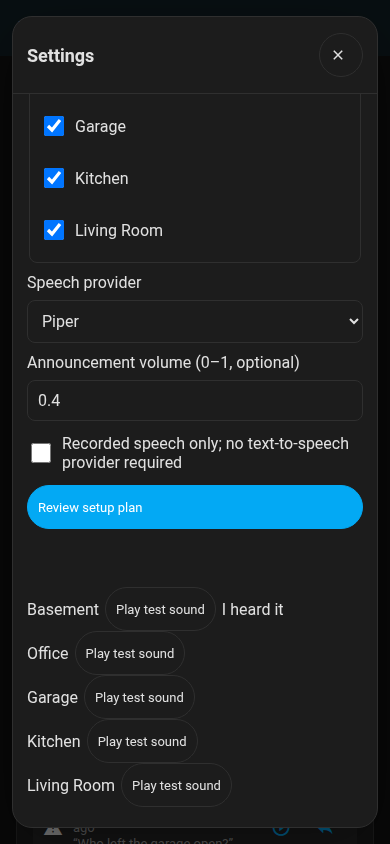
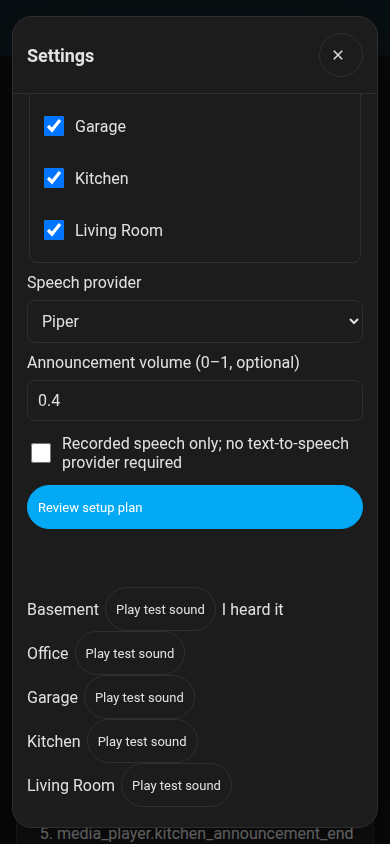
feat: show message preparation and delivery timeline (#53)
* feat(delivery): show message progress

* feat(profiles): add household presets

* feat(jobs): persist opt-in message recovery

* ci: avoid redundant browser dependency installs

* fix(profiles): clarify destination overrides

* fix: preserve clear cross-feature outcomes

* fix: preserve clear cross-feature outcomes

* ci: avoid slow hosted Ubuntu mirror

* ci: avoid slow hosted Ubuntu mirror

* ci: avoid slow hosted Ubuntu mirror

* fix(timeline): wrap long speaker names

* ci: pin self-contained ffmpeg for audio tests

* ci: pin self-contained ffmpeg for audio tests

* ci: pin self-contained ffmpeg for audio tests

* fix: align native catalog with merged app

* fix: align native catalog with merged app

* fix: align native catalog with merged app

Changed region(s): [[0.0923, 0.955, 0.9231, 1.0]]

diff --git a/custom_components/roomcall/frontend/roomcall-controls.js b/custom_components/roomcall/frontend/roomcall-controls.js
@@ -21,6 +21,7 @@ export class RoomCallControls {
       .communication .setup-content { display:grid; gap:8px; padding-top:8px }
       .communication .test-row { display:flex; align-items:center; flex-wrap:wrap; gap:6px }
       .communication .result,.communication .settings-result { overflow-wrap:anywhere; white-space:pre-wrap }
+      .communication ol { min-width:0; margin:0; padding-inline-start:24px; overflow-wrap:anywhere; }
       .communication button { min-height:44px; min-width:44px }
       .communication button:disabled { opacity:.5; cursor:not-allowed }
       .communication nav[data-toolbar] { display:grid; grid-template-columns:repeat(3,minmax(0,1fr)) 44px; gap:4px;
@@ -117,6 +118,9 @@ export class RoomCallControls {
     this.result = document.createElement("div");
     this.result.className = "result muted";
     this.result.setAttribute("role", "status");
+    this.timeline = document.createElement("ol");
+    this.timeline.setAttribute("aria-label", this.t("delivery_timeline"));
+    this.timeline.hidden = true;
     this.jobActions = document.createElement("nav");
     this.dialog = document.createElement("dialog");
     this.dialog.setAttribute("aria-label", this.t("settings"));
@@ -183,7 +187,7 @@ export class RoomCallControls {
     const icon = document.createElement("ha-icon"); icon.setAttribute("icon", "mdi:tune-variant");
     settings.append(icon);
     this.nav.append(settings);
-    this.root.append(this.nav, this.form, this.result, this.jobActions);
+    this.root.append(this.nav, this.form, this.result, this.timeline, this.jobActions);
     card.shadowRoot.querySelector(".wrap").before(this.root);
     this.settingsRoot = document.createElement("section");
     this.settingsRoot.className = "communication settings-surface";
@@ -325,6 +329,23 @@ export class RoomCallControls {
       const job = await this.command("status", { id });
       this.result.textContent = this.t(job.state, { accepted: job.result?.delivered?.length || 0,
         speakers: Object.keys(job.result?.failed || {}).join(", ") });
+      const steps = [...(job.progress || [])];
+      this.timeline.hidden = !steps.length;
+      this.timeline.replaceChildren(...steps.map(step => {
+        const row = document.createElement("li");
+        row.textContent = `${this.t(`phase_${step.stage}`)} · ${(step.elapsed_ms / 1000).toFixed(1)}s`;
+        return row;
+      }));
+      for (const [endpoint, evidence] of Object.entries(job.result?.evidence || {})) {
+        if (endpoint === "human") continue;
+        const name = this.capabilities?.endpoints.find(e => e.entity_id === endpoint)?.name || endpoint;
+        for (const key of ["audio_fetched_ms", "playback_reported_ms"]) {
+          if (evidence[key] == null) continue;
+          const row = document.createElement("li");
+          row.textContent = `${name}: ${this.t(`phase_${key}`)} · ${(evidence[key] / 1000).toFixed(1)}s`;
+          this.timeline.append(row);
+        }
+      }
       this.jobActions.replaceChildren();
       if (job.state === "queued") this.jobActions.append(this.button("cancel", async () => {
         await this.command("cancel", { id });

diff --git a/scripts/ha_card_harness.html b/scripts/ha_card_harness.html
@@ -177,7 +177,7 @@
         if (body.operation === "preview") return {ok:true,endpoints:ROOMS.filter((r) => request.areas?.includes("all") || request.areas?.includes(r.area_id)).map((r) => `media_player.${r.area_id}`)};
         if (["send","ask","sound_test"].includes(body.operation)) {
           const id=crypto.randomUUID();
-          const job={ok:true,id,state:body.operation==="ask"?"answered":"completed",responses:body.operation==="ask"?[{sentence:"Pizza"}]:[]};
+          const job={ok:true,id,progress:[{stage:"queued",elapsed_ms:0},{stage:"synthesizing",elapsed_ms:40},{stage:"completed",elapsed_ms:250}],result:{evidence:{"media_player.kitchen_announcement_endpoint_with_a_long_name_for_small_displays":{audio_fetched_ms:100,playback_reported_ms:200}},failed:{}},state:body.operation==="ask"?"answered":"completed",responses:body.operation==="ask"?[{sentence:"Pizza"}]:[]};
           jobs.set(id,{...job,speaker:request.speaker});
           return job;
         }

diff --git a/custom_components/roomcall/frontend/roomcall-card.js b/custom_components/roomcall/frontend/roomcall-card.js
@@ -1,5 +1,5 @@
 /* RoomCall push-to-talk card for Home Assistant dashboards. */
-const CARD_VERSION = "0.16.0";
+const CARD_VERSION = "0.17.0";
 // Peak level (0–1) below which a recording is treated as silence.
 const SILENCE_PEAK = 0.04;
 const LAYOUTS = ["default", "compact", "kiosk"];

diff --git a/custom_components/roomcall/jobs.py b/custom_components/roomcall/jobs.py
@@ -52,12 +52,24 @@ class Job:
     task: asyncio.Task | None = None
     acknowledged: asyncio.Event = field(default_factory=asyncio.Event)
 
+    started_mono: float = field(default_factory=time.monotonic)
+    progress: list[dict[str, Any]] = field(default_factory=list)
     saved_result: dict[str, Any] | None = None
+
+    def phase(self, stage: str) -> None:
+        self.progress.append(
+            {
+                "stage": stage,
+                "elapsed_ms": max(0, round((time.monotonic() - self.started_mono) * 1000)),
+            }
+        )
+        self.progress[:] = self.progress[-16:]
 
     def summary(self) -> dict[str, Any]:
         return {
             "id": self.id,
             "state": self.state,
+            "progress": list(self.progress),
             "created": self.created,
             "result": self.record.summary() if self.record else self.saved_result,
             "error": self.error,
@@ -169,6 +181,7 @@ class Jobs:
             asyncio.get_running_loop().time() + values.get("expires_in", 300),
             assistant=assistant,
         )
+        job.phase("queued")
         self.items[job.id] = job
         if key[1]:
             self.keys[key] = (job.id, fingerprint)
@@ -234,12 +247,15 @@ class Jobs:
     async def _run(self, job: Job) -> None:
         def dispatched() -> None:
             job.state = "running"
+            if not any(p["stage"] == "dispatching" for p in job.progress):
+                job.phase("dispatching")
 
         try:
             if job.values.get("durable"):
                 await self.save()
             async with asyncio.timeout_at(job.deadline):
                 if job.values.get("defer_until_present"):
+                    job.phase("waiting_presence")
                     await self._wait_for_presence(job)
                 if job.values.get("satellites"):
                     dispatched()
@@ -259,6 +275,7 @@ class Jobs:
                     call_id=job.id,
                     deadline=job.deadline,
                     on_dispatch=dispatched,
+                    on_progress=job.phase,
                 )
                 if not job.record.ok:
                     accepted = sum(r.ok for r in job.record.results)
@@ -280,6 +297,7 @@ class Jobs:
                 if job.values.get("require_ack"):
                     job.record.requires_ack = True
                     job.state = "waiting_ack"
+                    job.phase("waiting_ack")
                     try:
                         async with asyncio.timeout(job.values.get("ack_timeout", 60)):
                             await job.acknowledged.wait()
@@ -319,6 +337,7 @@ class Jobs:
         finally:
             if job.record and job.state != "waiting_ack":
                 job.record.requires_ack = False
+            job.phase(job.state)
             self.data.metrics.counters[f"jobs_{job.state}"] += 1
             if job.values.get("durable"):
                 await self.save()

diff --git a/tests_ha/test_timeline.py b/tests_ha/test_timeline.py
@@ -1,0 +1,41 @@
+"""Visible delivery stages never imply acoustic or human confirmation."""
+
+from custom_components.roomcall.communication import execute
+from custom_components.roomcall.messages import request_for
+from homeassistant.core import Context
+from pytest_homeassistant_custom_component.common import async_mock_service
+
+
+async def test_timeline_tracks_preparation_dispatch_and_request_completion(hass, setup_roomcall):
+    data = hass.data["roomcall"]
+    hass.states.async_set("tts.piper", "unknown")
+    async_mock_service(hass, "media_player", "play_media")
+    result = await execute(hass, "send", {"areas": ["kitchen"], "message": "Dinner"}, Context())
+    assert result["progress"][0]["stage"] == "queued"
+    job = data.jobs.items[result["id"]]
+    await job.task
+    status = await execute(hass, "status", {"id": job.id}, Context())
+    assert [s["stage"] for s in status["progress"]] == [
+        "queued",
+        "synthesizing",
+        "composing",
+        "waiting_speakers",
+        "dispatching",
+        "completed",
+    ]
+    assert all(s["elapsed_ms"] >= 0 for s in status["progress"])
+    assert status["audible"] is None and status["result"]["audible"] is None
+    assert not any("human" in evidence for evidence in status["result"]["evidence"].values())
+    for _ in range(30):
+        job.phase("queued")
+    assert len(job.progress) == 16
+
+    cached_stages = []
+    await request_for(
+        hass,
+        data,
+        {"areas": ["kitchen"], "message": "Dinner"},
+        Context(),
+        on_progress=cached_stages.append,
+    )
+    assert cached_stages == []  # Reused audio did not synthesize or compose again.

diff --git a/custom_components/roomcall/messages.py b/custom_components/roomcall/messages.py
@@ -28,6 +28,8 @@ async def request_for(
     data: RoomCallData,
     values: dict[str, Any],
     context: Context,
+    *,
+    on_progress: Callable[[str], None] | None = None,
 ) -> CallRequest:
     from dataclasses import replace
 
@@ -124,7 +126,11 @@ async def request_for(
             try:
 
                 async def build():
+                    if on_progress:
+                        on_progress("synthesizing")
                     extension, speech = await async_get_media_source_audio(hass, media_id)
+                    if on_progress:
+                        on_progress("composing")
                     result = await to_playable(
                         get_ffmpeg_manager(hass).binary,
                         speech,
@@ -186,8 +192,11 @@ async def send(
     deadline: float | None = None,
     on_dispatch: Callable[[], None] | None = None,
     notify: bool = True,
+    on_progress: Callable[[str], None] | None = None,
 ) -> CallRecord:
-    request = await request_for(hass, data, values, context)
+    request = await request_for(hass, data, values, context, on_progress=on_progress)
+    if on_progress:
+        on_progress("waiting_speakers")
     request.call_id, request.deadline, request.on_dispatch = call_id, deadline, on_dispatch
     request.notify = notify
     return await place_call(hass, data, request)

diff --git a/scripts/qa_communication.py b/scripts/qa_communication.py
@@ -307,7 +307,7 @@ def main() -> None:
         check_doorbell(browser, errors)
         check_doorbell_changes(browser, errors)
         check_phone_tab(browser, errors)
-        for width, height in [(390, 844), (1280, 900)]:
+        for width, height in [(240, 800), (390, 844), (1280, 900)]:
             context = browser.new_context(viewport={"width": width, "height": height})
             context.grant_permissions(["microphone"], origin=ORIGIN)
             page = context.new_page()
@@ -335,6 +335,10 @@ def main() -> None:
             expect(card.locator(".result")).to_contain_text("Basement")
             card.get_by_role("button", name="Send", exact=True).click()
             expect(card.locator(".result")).to_contain_text("audibility unconfirmed")
+            timeline = card.get_by_role("list", name="Delivery timeline", exact=True)
+            expect(timeline).to_contain_text("Generating speech")
+            expect(timeline).to_contain_text("Audio fetched after dispatch")
+            expect(timeline).to_contain_text("Playback reported after dispatch")
             sent = page.evaluate(
                 "ROOMCALL_HARNESS.requests.filter(r=>r.operation==='send').at(-1).request"
             )

diff --git a/custom_components/roomcall/const.py b/custom_components/roomcall/const.py
@@ -3,7 +3,7 @@
 from __future__ import annotations
 
 DOMAIN = "roomcall"
-VERSION = "0.16.0"
+VERSION = "0.17.0"
 
 CONF_SPEAKERS = "speakers"
 CONF_VOLUME = "volume"

diff --git a/src/roomcall/__init__.py b/src/roomcall/__init__.py
@@ -1,3 +1,3 @@
 """RoomCall: push-to-talk home intercom for Sonos, AirPlay and Chromecast speakers."""
 
-__version__ = "0.16.0"
+__version__ = "0.17.0"

diff --git a/docs/communication.md b/docs/communication.md
@@ -292,6 +292,21 @@ coverage for both Python packages on every supported Python/HA test job, without
 source omissions. This does not measure JavaScript statement coverage. Physical speaker and
 doorbell behavior must still be checked on the chosen hardware.
 
+## Delivery timeline
+
+Every message job exposes a bounded `progress` list with stage codes and monotonic
+elapsed milliseconds. The card renders queueing, presence wait, speech generation,
+chime composition, speaker wait, dispatch and terminal outcome. Stage timestamps mark
+observed transitions; the gap to the next stage is elapsed work/wait, not an acoustic
+measurement. Direct TTS routes may not expose provider preparation separately.
+
+Endpoint audio-fetch and matching playback reports are shown separately, measured
+from endpoint dispatch. Those clocks must not be added to whole-job elapsed times.
+A completed request is not a claim that playback finished or somebody heard it.
+Explicit human acknowledgment remains separate. Existing structured errors provide
+recovery instructions for blocked/failed messages. The UI uses the shared translated
+labels and preserves narrow layouts and screen-reader status announcements.
+
 ## Household profiles
 
 Configure Communication → Household profiles with at most 32 named presets:

diff --git a/CHANGELOG.md b/CHANGELOG.md
@@ -4,6 +4,10 @@ All notable changes are listed here. The format follows
 [Keep a Changelog](https://keepachangelog.com/en/1.1.0/) and versions follow
 [Semantic Versioning](https://semver.org/).
 
+## 0.17.0 — 2026-10-23
+
+- Show measured preparation and dispatch stages, with endpoint fetch/playback evidence separate from human acknowledgment. Completion still means requests finished, not audible playback.
+
 ## 0.16.0 — 2026-10-23
 
 - Named household profiles provide reusable targets, message, volume, language, chime and voice defaults through a dashboard picker and the existing preview/send API.
